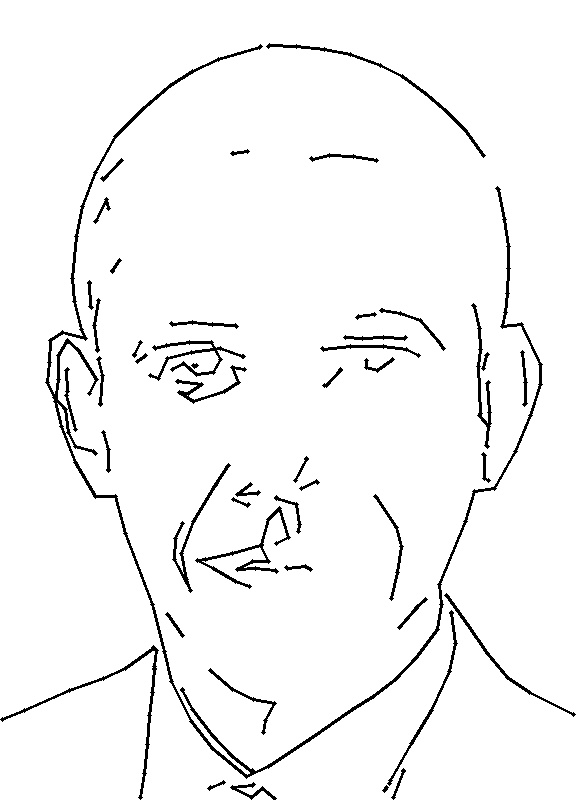
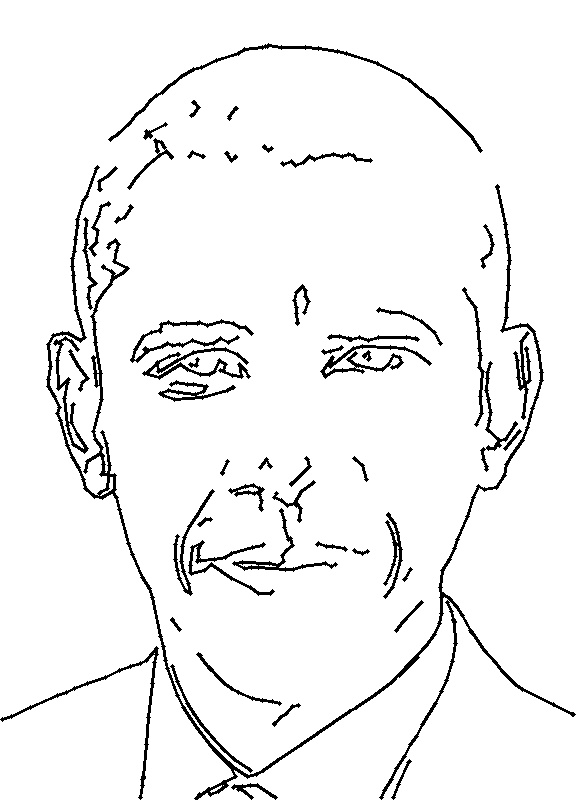
Conflicts: 	__pycache__/auto_edge.cpython-38.pyc 	__pycache__/full_face_processing.cpython-38.pyc 	__pycache__/full_path_planning.cpython-38.pyc 	__pycache__/pieces.cpython-38.pyc 	__pycache__/posterize.cpython-38.pyc 	__pycache__/utilities.cpython-38.pyc 	test.jpg

diff --git a/full_face_processing.py b/full_face_processing.py
@@ -19,7 +19,8 @@ import utilities
 
 from full_path_planning import calc_path, plot_path, plot_path_full, distance
 
-def plot_segments(segments, shape = (512 * 2, 512 * 2)):
+def plot_segments(segments, shape = (512, 512)):
+    
     
     # img = in_img.copy()
     # mask = cv2.inRange(img, (0,0,0), (255,255,255))
@@ -29,8 +30,8 @@ def plot_segments(segments, shape = (512 * 2, 512 * 2)):
 
     for seg in segments:
 
-        # color = tuple(rd.randrange(0,255) for i in range(3))
-        color = (0,0,0)
+        color = tuple(rd.randrange(0,255) for i in range(3))
+        # color = (0,0,0)
 
         i = 0
         for i in range(len(seg)-1):
@@ -41,6 +42,13 @@ def plot_segments(segments, shape = (512 * 2, 512 * 2)):
             # cv2.line(img,(x1,y1), (x1,y1), (0,0,0), 4)
             # cv2.line(img,(x2,y2), (x2,y2), (0,0,0), 4)
             cv2.line(img,(x1,y1),(x2,y2),color,2)
+            
+            
+    color = (0,0,255)
+    # for i in range(len(segments)-1):
+        
+    #     x1,y1,x2,y2 = int(segments[i][-1][0]*shape[0]), int(segments[i][-1][1]*shape[0]), int(segments[i+1][0][0]*shape[1]), int(segments[i+1][0][1]*shape[1])
+    #     cv2.line(img,(x1,y1),(x2,y2),color,2)
                 
     cv2.imwrite("test.jpg", img)
     cv2.imshow("images", img)
@@ -186,12 +194,14 @@ def process_edges_raw(filename, blur_radius = 17, lower_thresh = 0,
                 if dist < mindist and j not in sortedPoints:
                     mindist = dist
                     nearby = j
-                    break
+                    # break
+
+            
 
             
 
         sortedPoints.append(nearby)
-        points.remove(nearby)
+        points.remove(nearby) #TODO make this better
         edges[nearby[1]][nearby[0]] = 0
         
         
@@ -376,7 +386,7 @@ def process_shading_raw(filename, blur_radius = 3, n = 5, density = 20, theta = 
         #             if edges[y][x] == 255:
         #                 return(x,y)
 
-        for x,y in spiral_out(xP,yP, 50):
+        for x,y in spiral_out(xP,yP, 2):
             if 0 <= x < edges.shape[1] and 0 <= y < edges.shape[0]:
                 if edges[y][x] == 255:
                         return(x,y)
@@ -409,48 +419,47 @@ def process_shading_raw(filename, blur_radius = 3, n = 5, density = 20, theta = 
     mask = cv2.inRange(img, (0,0,0), (255,255,255))
     img[mask>0] = (255,255,255)
     
-
+    shades = [shades[3]]
     for edges in shades:
 
         # edges = cv2.Canny(gray, lower_thresh, upper_thresh)
         edges2 = copy.deepcopy(edges)
 
-        for y in range(len(edges)):
-            for x in range(len(edges[y])):
-                if edges[y][x] == 255:
-                    # print(check_closes(x,y,1))
-                    if check_closes(x,y,1) < 2:
-                        edges2[y][x] = 0
-
-        edges = edges2
-
-        saved_edges = copy.deepcopy(edges)
-
-        # cv2.imwrite('edges.jpg',edges)
-
-        # combined = np.concatenate((edges, edges2), axis=1)
-        # cv2.imshow("images", combined)
-        # cv2.waitKey(0)
-
-
         points = []
         for y in range(len(edges)):
             for x in range(len(edges[y])):
                 if edges[y][x] == 255:
-                    points.append((x,y))
+                    # print(check_closes(x,y,1))
+                    if check_closes(x,y,1) == 1:
+                        points.append((x,y))
+                        # edges2[y][x] = 0
+
+        edges = edges2
+
+        # points = []
+        # for y in range(len(edges)):
+        #     for x in range(len(edges[y])):
+        #         if edges[y][x] == 255:
+        #             points.append((x,y))
+                    
         sortedPoints = [points[0]]
 
         len_points = len(points)
 
         tt0 = time.time() 
-        for i in range(len_points-1):
+        i=0
+        while points:
             t0 = time.time()
             targetPoint = sortedPoints[i]
+            
+            # if len_points <= 0:
+            #     break
 
-            if i % (len_points//200) == 0:
 
-                print('\r', end="")
-                print(f"{i/(len(points) + len(sortedPoints)) * 100: .2f}% complete", end = "")
+            # if i % (len_points//200) == 0:
+
+            #     print('\r', end="")
+            #     print(f"{i/(len(points) + len(sortedPoints)) * 100: .2f}% complete", end = "")
             
             nearby = check_close(*targetPoint)
 
@@ -461,14 +470,25 @@ def process_shading_raw(filename, blur_radius = 3, n = 5, density = 20, theta = 
                     if dist < mindist and j not in sortedPoints:
                         mindist = dist
                         nearby = j
-                        break
-
                 
+                    
+            
+                # nearby = points[0]
+            
+            try:
+                edges[nearby[1]][nearby[0]] = 0
+            except TypeError:
+                break
 
             sortedPoints.append(nearby)
-            points.remove(nearby)
-            edges[nearby[1]][nearby[0]] = 0
+            try:
+                points.remove(nearby)
+            except ValueError:
+                pass
             
+            
+            
+            i+=1
             
         print("")
         print(f"took {time.time()-tt0: .2f} seconds to sort all {len(sortedPoints)} points")
@@ -591,8 +611,10 @@ def process_shading_raw(filename, blur_radius = 3, n = 5, density = 20, theta = 
 
 def process_combo_raw(filename):
     
-    segments = process_edges_raw(filename)
-    segments.extend(process_shading_raw(filename))
+    segments = process_edges_raw(filename, blur_radius = 11, lower_thresh = 10,
+        upper_thresh = 50, segmentSplitDistance=15, areaCut = 3,
+        minNumPixels = 15)
+    segments.extend(process_shading_raw(filename, density = 10, areaCut=1))
     
     return segments
 
@@ -602,10 +624,13 @@ def process_combo(filename, max_accel, max_radius, turn_vel_multiplier, freq):
 
 if __name__ == "__main__":
 
-    filename = "small_obama.jpg"
+    filename = "C:/Users/Samir/OneDrive/Documents/Drawing Bot/GantryGame3.0/GantryGame3.0/small_obama.jpg"
 
     # segments = process_combo(filename, 30, 1, 1, 120)
     # plot_path_full(segments)
 
-    segments= process_combo_raw(filename)
-    plot_segments(segments)
+    # segments= process_combo_raw(filename)
+    segments = process_shading_raw(filename, n=10, theta=math.pi/4)
+    segments =  calc_path(segments,  10, .001, 1, 60)
+    plot_path_full(segments)
+

diff --git a/posterize.py b/posterize.py
@@ -157,9 +157,9 @@ def get_spinny(im, n, density=30, theta=None, doin='doin your mom doin doin your
     # makes an array of the line doohickers, pixel value corrisponds to the depth, has go go opposite direction
     lines = []
     for i in range(n):
-        print("\r" + doin[i % len(doin)])
+        # print("\r" + doin[j % len(doin)])
         hatch = utilities.copy_blank(hatch)
-        θ = i * theta
+        θ = (i+1) * theta
         # θ = math.pi+ 2
         # yspace = 100
         # xspace = int(yspace * math.tan(θ))
@@ -204,6 +204,8 @@ def get_spinny(im, n, density=30, theta=None, doin='doin your mom doin doin your
     quantiz = quantiz.tolist()
     quantiz.reverse()
     quantiz[1] = 255  # kills the first layer of hatches
+    quantiz[2] = 255 # poopoo peee poo
+    quantiz[3] = 255
     edges = []
     for quant in quantiz:
         edge = blank.copy()

diff --git a/gantry.py b/gantry.py
@@ -44,7 +44,6 @@ class Gantry:
         self.x_max_vel = xmax
         self.y_max_vel = ymax
 
-    #todo, add assert statments
     def startup(self):
         print("starting up")
 

diff --git a/test.py b/test.py
@@ -1,0 +1,1 @@
+print("ran test")
